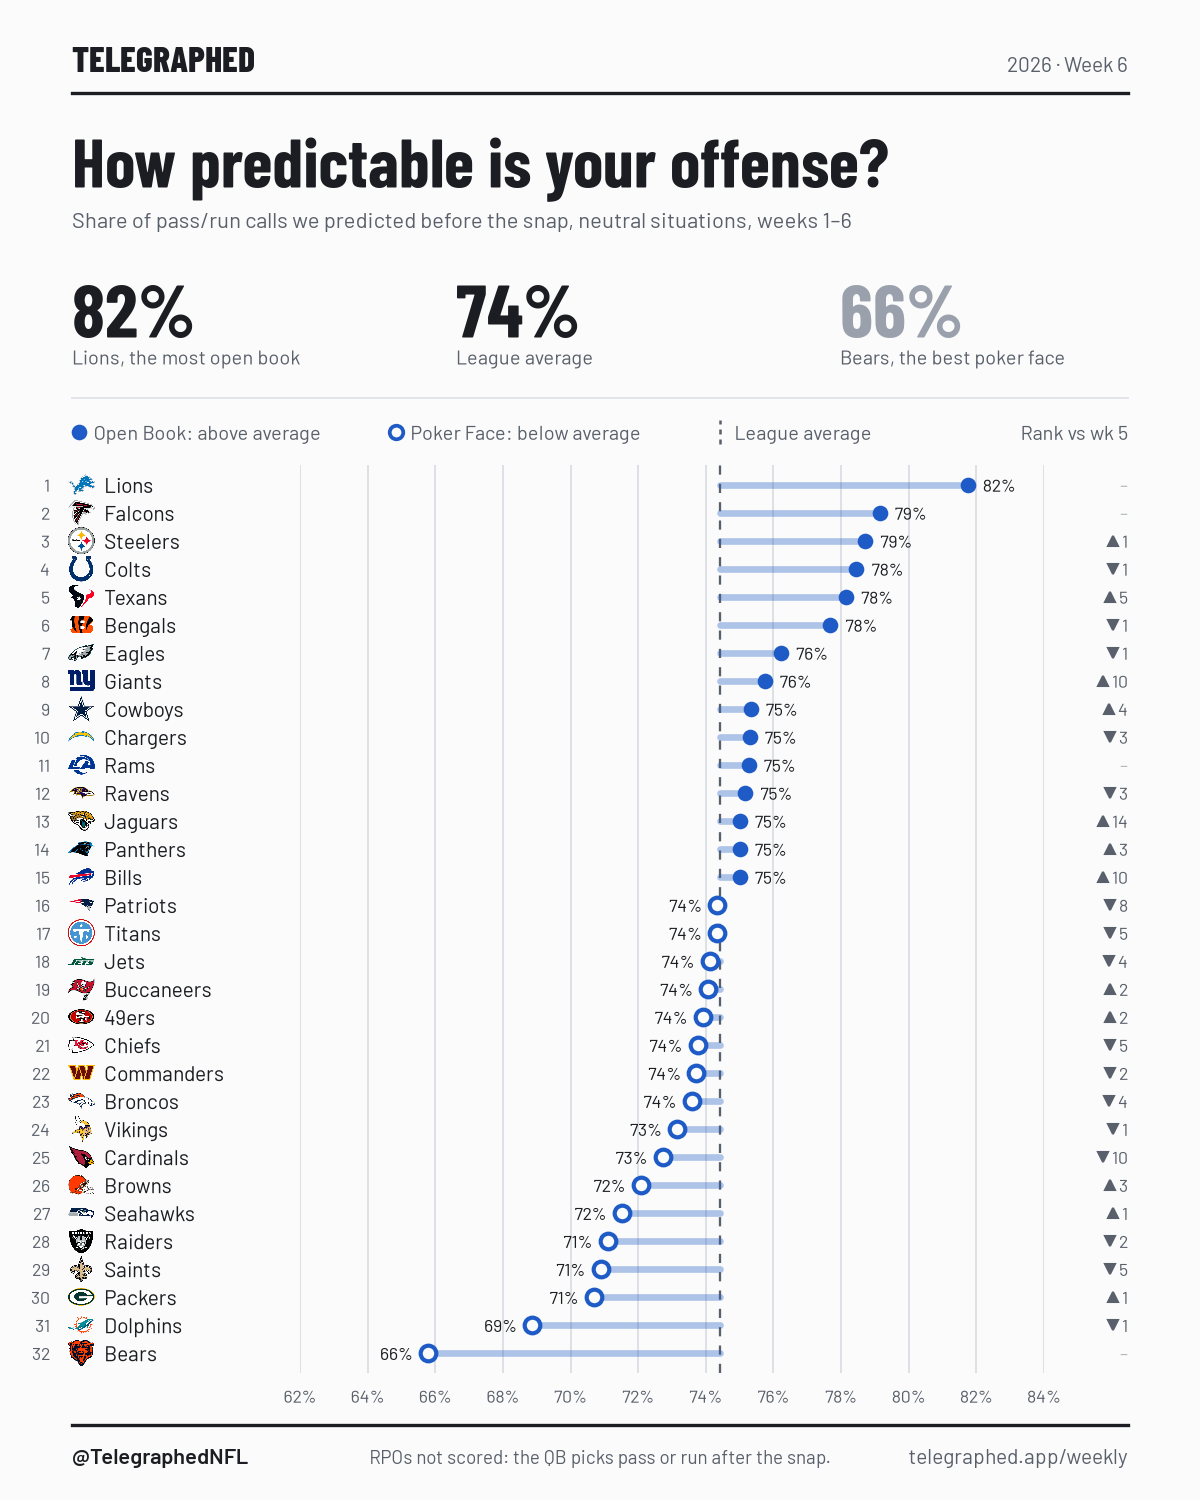
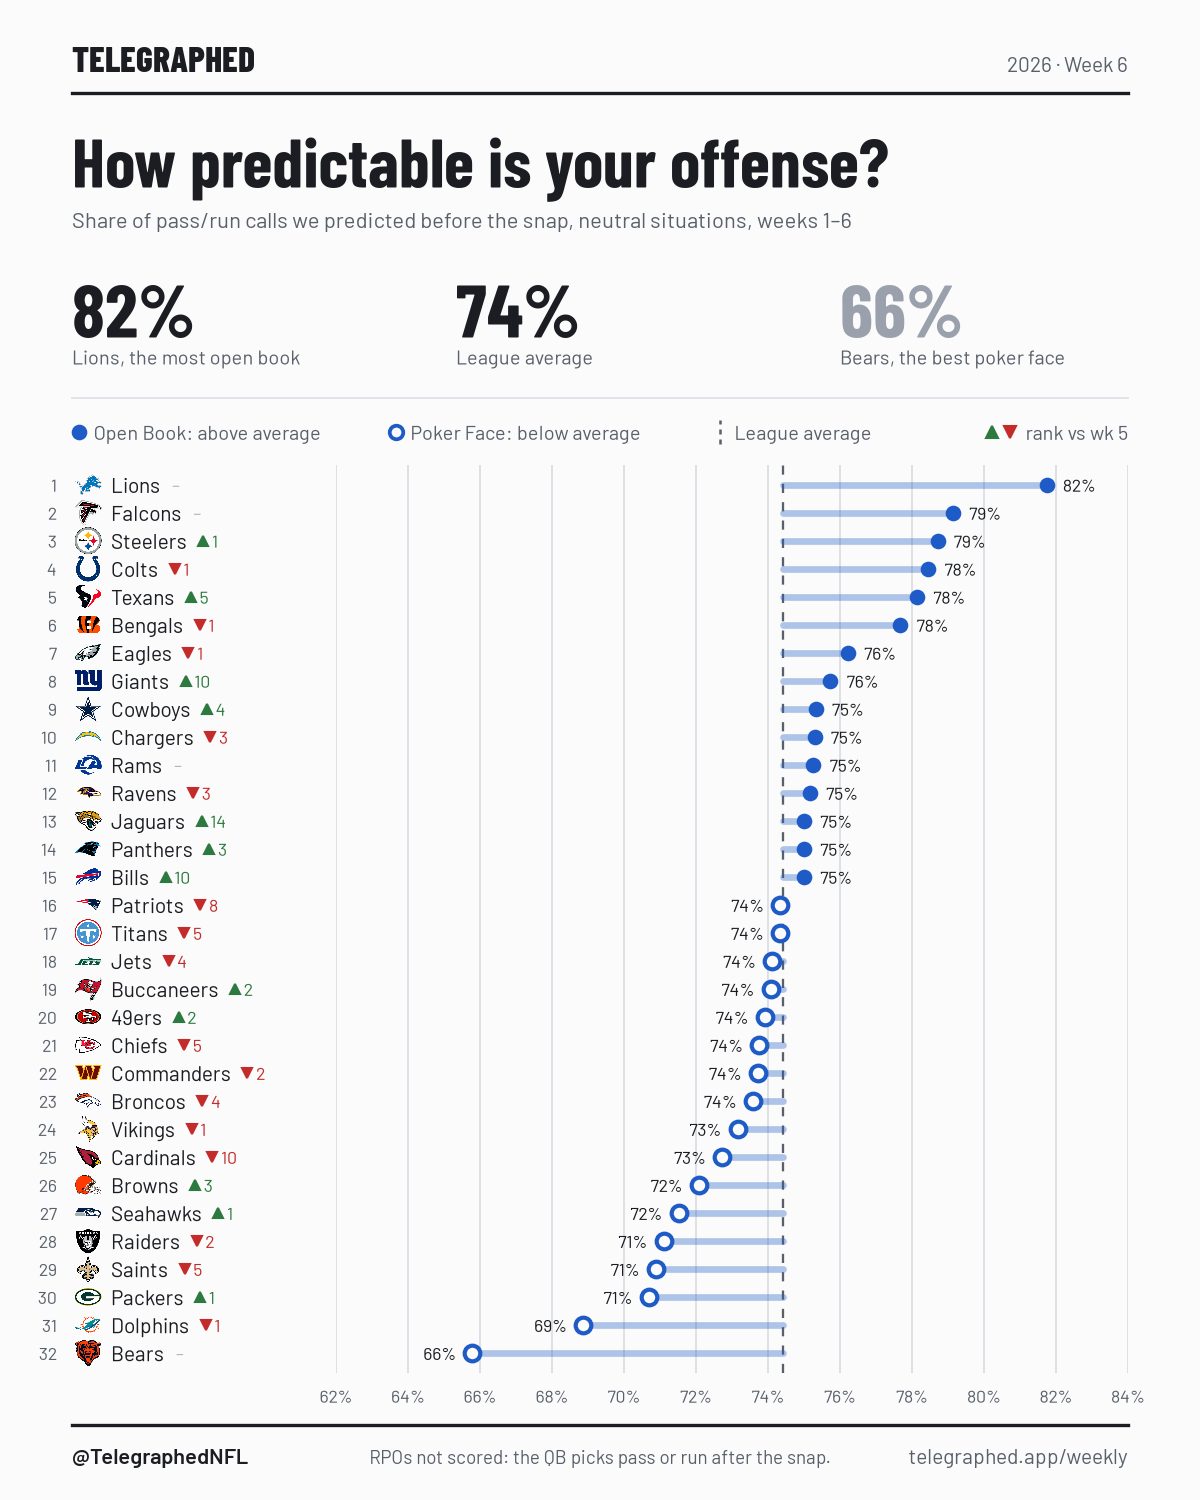
Change arrows beside team names, green up / red down
Claude-Session: https://claude.ai/code/session_01NWKE53WeDF9oazSkcFb3rH

diff --git a/site/weekly/index.html b/site/weekly/index.html
@@ -76,7 +76,8 @@ svg text { font-family: var(--text); }
 .key { display: flex; gap: 1.25rem; font-size: .85rem; color: var(--ink-2); margin: .25rem 0 .5rem; flex-wrap: wrap; }
 .key span::before { content: ""; display: inline-block; width: .7rem; height: .7rem; border-radius: 50%; margin-right: .35rem; vertical-align: -1px; background: var(--c); box-sizing: border-box; }
 .key span.arrows::before { display: none; }
-.mv { font-size: .8em; color: var(--ink-2); margin-left: .35em; }
+.mv { font-size: .8em; margin-left: .35em; }
+.up { color: var(--hit); font-weight: 400; } .dn { color: var(--run); font-weight: 400; }
 .key span.hollow::before { background: transparent; border: 2px solid var(--pass); }
 .tip { position: absolute; pointer-events: none; background: var(--board); border: 1px solid var(--grid); border-radius: 8px; padding: .35rem .6rem; font-size: .82rem; box-shadow: 0 4px 14px var(--shadow); display: none; white-space: nowrap; z-index: 5; }
 .tip .t { color: var(--ink-2); }
@@ -121,7 +122,7 @@ img.logo { width: 1.15em; height: 1.15em; object-fit: contain; vertical-align: -
       <div class="num"><div class="v" id="n-avg">—</div><div class="k">League average, neutral situations</div></div>
       <div class="num"><div class="v pub" id="n-bot">—</div><div class="k" id="k-bot">Least predictable</div></div>
     </div>
-    <div class="chart" id="c-rank"><div class="key"><span style="--c:var(--pass)">Open Book: above average</span><span class="hollow">Poker Face: below average</span><span style="--c:var(--ink-2)">League average</span><span class="arrows" id="k-move">▲▼ rank vs last week</span></div></div>
+    <div class="chart" id="c-rank"><div class="key"><span style="--c:var(--pass)">Open Book: above average</span><span class="hollow">Poker Face: below average</span><span style="--c:var(--ink-2)">League average</span><span class="arrows" id="k-move">rank vs last week</span></div></div>
     <details class="tbl"><summary>Show as a table</summary>
       <table><thead><tr><th>#</th><th>Move</th><th>Offense</th><th class="n">Neutral</th><th class="n">All plays</th><th class="n">Snaps</th></tr></thead><tbody id="tbl"></tbody></table>
     </details>
@@ -171,10 +172,10 @@ function rankChart(rows, avg) {
   const svg = svgIn(box, H);
   const rw = textW(svg, ['32'], 'tk') + 10;
   const lg = rows[0].abbr ? 24 : 0;   // logo column
-  const lw = rw + lg + textW(svg, rows.map((r) => r.team), 'lb') + 14;
+  const mw = D_week > 1 ? 30 : 0;   // rank change beside each name
+  const lw = rw + lg + textW(svg, rows.map((r) => r.team), 'lb') + 14 + mw;
   const lo = d3.min(rows, (r) => r.neutral), hi = d3.max(rows, (r) => r.neutral);
-  const mw = D_week > 1 ? 34 : 0;   // rank-change column on the right
-  const x = d3.scaleLinear([Math.floor((lo - .02) * 50) / 50, Math.ceil((hi + .02) * 50) / 50], [lw + 40, W - 48 - mw]);
+  const x = d3.scaleLinear([Math.floor((lo - .02) * 50) / 50, Math.ceil((hi + .02) * 50) / 50], [lw + 40, W - 48]);
   const y = d3.scaleBand(rows.map((r) => r.team), [4, H - 26]).padding(.3);
   const cy = (r) => y(r.team) + y.bandwidth() / 2;
   const ticks = x.ticks(Math.max(2, Math.floor((W - lw) / 80)));
@@ -183,7 +184,8 @@ function rankChart(rows, avg) {
   svg.append('line').attr('x1', x(avg)).attr('x2', x(avg)).attr('y1', 0).attr('y2', H - 24).attr('stroke', css('--ink-2')).attr('stroke-dasharray', '4 4');
   svg.append('g').selectAll('text').data(rows).join('text').attr('class', 'tk').attr('x', rw - 10).attr('y', cy).attr('dy', '.35em').attr('text-anchor', 'end').text((r) => r.rank);
   if (lg) svg.append('g').selectAll('image').data(rows).join('image').attr('class', 'logo').attr('href', (r) => logoSrc(r.abbr)).attr('x', rw).attr('y', (r) => cy(r) - 9).attr('width', 18).attr('height', 18);
-  svg.append('g').selectAll('text').data(rows).join('text').attr('class', 'lb').attr('x', rw + lg).attr('y', cy).attr('dy', '.35em').text((r) => r.team);
+  const lab = svg.append('g').selectAll('text').data(rows).join('text').attr('class', 'lb').attr('x', rw + lg).attr('y', cy).attr('dy', '.35em').text((r) => r.team);
+  if (mw) lab.append('tspan').attr('dx', 6).attr('class', 'tk').style('fill', (r) => css(r.move > 0 ? '--hit' : r.move < 0 ? '--run' : '--public')).text((r) => moveTxt(r.move));
   const g = svg.append('g').selectAll('g').data(rows).join('g');
   const up = (r) => r.neutral >= avg;
   g.append('line').attr('x1', x(avg)).attr('x2', (r) => x(r.neutral)).attr('y1', cy).attr('y2', cy).attr('stroke', css('--pass')).attr('stroke-opacity', .35).attr('stroke-width', 4).attr('stroke-linecap', 'round');
@@ -191,8 +193,6 @@ function rankChart(rows, avg) {
     .attr('fill', (r) => (up(r) ? css('--pass') : css('--board'))).attr('stroke', css('--pass')).attr('stroke-width', (r) => (up(r) ? 0 : 2.5));
   g.append('text').attr('class', 'tk').attr('fill', css('--ink')).attr('y', cy).attr('dy', '.35em')
     .attr('x', (r) => x(r.neutral) + (up(r) ? 12 : -12)).attr('text-anchor', (r) => (up(r) ? 'start' : 'end')).text((r) => fmt0(r.neutral));
-  if (mw) g.append('text').attr('class', 'tk').attr('x', W - 2).attr('y', cy).attr('dy', '.35em').attr('text-anchor', 'end')
-    .attr('fill', (r) => (r.move ? css('--ink-2') : css('--grid'))).text((r) => moveTxt(r.move));
   const tip = tipFor(box);
   g.append('rect').attr('x', 0).attr('width', W).attr('y', (r) => y(r.team)).attr('height', y.bandwidth()).attr('fill', 'transparent')
     .on('mousemove', (ev, r) => tip.show(ev, `#${r.rank} ${r.team}`, [`${fmtP(r.neutral)} called, neutral situations`, `${fmtP(r.acc)} called, all plays`, `${fmtC(r.snaps)} neutral snaps`, `Last week: ${moveTxt(r.move)}`]))
@@ -202,7 +202,7 @@ function rankChart(rows, avg) {
 let D_week = 1;
 function draw(D) {
   D_week = D.week;
-  if (D.week <= 1) el('k-move').remove(); else el('k-move').textContent = `▲▼ rank vs week ${D.week - 1}`;
+  if (D.week <= 1) el('k-move').remove(); else el('k-move').innerHTML = `<b class="up">▲</b><b class="dn">▼</b> rank vs week ${D.week - 1}`;
   const T = D.teams, top = T[0], bot = T[T.length - 1];
   el('meta').textContent = `${D.season} · Week ${D.week}`;
   el('hero-sub').textContent = `Every play caller has a tell. Through week ${D.week} of ${D.season}, we called ${fmt0(D.league_acc)} of all pass/run plays before the snap. Here's who gives it away most.`;
@@ -217,6 +217,7 @@ function draw(D) {
     [r.rank, moveTxt(r.move), r.team, fmt0(r.neutral), fmt0(r.acc), fmtC(r.snaps)].forEach((v, i) => {
       const td = document.createElement('td'); td.textContent = v; if (i >= 3) td.className = 'n';
       if (i === 2 && r.abbr) td.prepend(logoImg(r.abbr));
+      if (i === 1 && r.move) td.className = r.move > 0 ? 'up' : 'dn';
       tr.appendChild(td);
     });
     return tr;

diff --git a/site/index.html b/site/index.html
@@ -64,7 +64,7 @@ a.weekly .wk { color: var(--ink-2); font-size: .85rem; font-weight: 500; }
 a.weekly .wh { font-family: var(--display); font-weight: 700; font-size: clamp(1.5rem, 4vw, 2rem); line-height: 1.05; margin: .1rem 0 .4rem; }
 a.weekly .wl { display: flex; gap: .4rem 1.5rem; flex-wrap: wrap; color: var(--ink-2); font-size: .95rem; }
 a.weekly .wl b { color: var(--ink); font-weight: 600; }
-.mv { font-size: .8em; color: var(--ink-2); margin-left: .3em; }
+.mv { font-size: .8em; margin-left: .3em; } .mv.up { color: var(--hit); } .mv.dn { color: var(--run); }
 img.logo, image.logo { filter: var(--logo-halo, none); }
 img.logo { width: 1.15em; height: 1.15em; object-fit: contain; vertical-align: -.22em; margin-right: .3em; }
 a.weekly .dot { display: inline-block; width: .7rem; height: .7rem; border-radius: 50%; margin-right: .35rem; vertical-align: -1px; background: var(--pass); }
@@ -287,7 +287,7 @@ function weeklyTeaser(W) {
     const b = Object.assign(document.createElement('b'), { textContent: `${r.team} ${fmt0(r.neutral)}` });
     if (r.abbr) b.prepend(logoImg(r.abbr));
     s.append(d, label + ' ', b);
-    if (W.week > 1 && r.move) s.append(Object.assign(document.createElement('span'), { className: 'mv', textContent: r.move > 0 ? `▲${r.move}` : `▼${-r.move}` }));
+    if (W.week > 1 && r.move) s.append(Object.assign(document.createElement('span'), { className: 'mv ' + (r.move > 0 ? 'up' : 'dn'), textContent: r.move > 0 ? `▲${r.move}` : `▼${-r.move}` }));
     return s;
   };
   l.append(item('', 'Open Book:', top), item(' hollow', 'Poker Face:', bot));

diff --git a/src/weekly_report.py b/src/weekly_report.py
@@ -15,7 +15,7 @@ import matplotlib.pyplot as plt
 import numpy as np
 import pandas as pd
 sys.path.insert(0, os.path.dirname(os.path.abspath(__file__)))
-from brand import BRAND, HANDLE, SITE, NICK, TAG, AT, BOARD, INK, INK2, GRID, PASS, use_fonts, pct, logo, arrow, change
+from brand import BRAND, HANDLE, SITE, NICK, TAG, AT, BOARD, INK, INK2, GRID, PASS, use_fonts, pct, logo, arrow, change, UP, DOWN
 from scoring import mark_rpo, NOTE
 
 D = os.environ.get("DATA", "data")
@@ -129,10 +129,12 @@ def card(path):
     fig.lines.append(plt.Line2D([0.60, 0.60], [ky - 0.008, ky + 0.008], transform=fig.transFigure, color=INK2, lw=1.2, ls=(0, (2, 2))))
     fig.text(0.612, ky, "League average", color=INK2, fontsize=9.5, va="center")
     if week > 1:
-        fig.text(0.94, ky, f"Rank vs wk {week - 1}", color=INK2, fontsize=9.5, va="center", ha="right")
+        fig.text(0.94, ky, f"rank vs wk {week - 1}", color=INK2, fontsize=9.5, va="center", ha="right")
+        for mx, mk, c in [(0.827, "^", UP), (0.842, "v", DOWN)]:
+            fig.lines.append(plt.Line2D([mx], [ky], transform=fig.transFigure, marker=mk, ms=5.5, color=c, lw=0))
 
     # ranked dot chart, same marks as the page
-    ax = fig.add_axes([0.25, 0.085, 0.62, 0.605], facecolor=BOARD)   # right margin: rank change column
+    ax = fig.add_axes([0.28, 0.085, 0.66, 0.605], facecolor=BOARD)   # wide label column: name + rank change
     n = len(ytd)
     yy = list(range(n))[::-1]
     v = ytd.acc_neutral.values
@@ -140,20 +142,24 @@ def card(path):
     ax.set_xlim(lo, hi)
     ax.set_ylim(-0.7, n - 0.3)
     ax.axvline(neutral_avg, color=INK2, lw=1.1, ls=(0, (4, 4)), zorder=2)
+    names = []
     for yi, r in zip(yy, ytd.itertuples()):
         up = r.acc_neutral >= neutral_avg
         ax.plot([neutral_avg, r.acc_neutral], [yi, yi], color=PASS, alpha=.35, lw=3.2, solid_capstyle="round", zorder=3)
         ax.plot(r.acc_neutral, yi, "o", ms=7.5, mfc=PASS if up else BOARD, mec=PASS, mew=0 if up else 2, zorder=4)
         ax.text(r.acc_neutral + (0.0045 if up else -0.0045), yi, pct(r.acc_neutral), ha="left" if up else "right",
                 va="center", color=INK, fontsize=8.5, zorder=5)
-        if week > 1:
-            fy = fig.transFigure.inverted().transform(ax.transData.transform((0, yi)))[1]
-            change(fig, 0.94, fy, r.move, size=8.5)
-        ax.annotate(f"{r.rank}", (0, yi), xycoords=("axes fraction", "data"), xytext=(-120, 0), textcoords="offset points",
+        ax.annotate(f"{r.rank}", (0, yi), xycoords=("axes fraction", "data"), xytext=(-134, 0), textcoords="offset points",
                     ha="right", va="center", color=INK2, fontsize=8.5)
-        logo(ax, r.posteam, (0, yi), 13, coords=("axes fraction", "data"), offset=(-105, 0))
-        ax.annotate(NICK[r.posteam], (0, yi), xycoords=("axes fraction", "data"), xytext=(-94, 0), textcoords="offset points",
+        logo(ax, r.posteam, (0, yi), 13, coords=("axes fraction", "data"), offset=(-119, 0))
+        nm = ax.annotate(NICK[r.posteam], (0, yi), xycoords=("axes fraction", "data"), xytext=(-108, 0), textcoords="offset points",
                     ha="left", va="center", color=INK, fontsize=10)
+        names.append(nm)
+    if week > 1:   # rank change beside each name (measured after layout)
+        rend = fig.canvas.get_renderer()
+        for yi, r, nm in zip(yy, ytd.itertuples(), names):
+            bb = fig.transFigure.inverted().transform(nm.get_window_extent(rend))
+            change(fig, bb[1][0] + 0.010, (bb[0][1] + bb[1][1]) / 2, r.move, size=8.5, ha="left")
     ax.set_yticks([])
     ax.xaxis.set_major_locator(matplotlib.ticker.MultipleLocator(0.02))
     ax.xaxis.set_major_formatter(matplotlib.ticker.FuncFormatter(lambda x, _: f"{x:.0%}"))

diff --git a/src/brand.py b/src/brand.py
@@ -34,6 +34,7 @@ AT = dict(ARI="@AZCardinals", ATL="@AtlantaFalcons", BAL="@Ravens", BUF="@Buffal
 
 # site tokens (site/index.html, light mode): cards must look like the site
 BOARD, INK, INK2, GRID, PASS, RUN = "#FAFBFA", "#1B1D22", "#5A606B", "#DCE0E5", "#1E5BC6", "#C42B2B"
+UP, DOWN = "#2C7A3F", "#C42B2B"   # week-over-week change arrows (site tokens --hit / --run)
 FONTS = os.path.join(os.path.dirname(os.path.abspath(__file__)), "..", "assets", "fonts")
 
 
@@ -76,10 +77,10 @@ def logo(target, team, xy, size, coords="figure fraction", offset=(0, 0)):
 def change(fig, x, y, n, suffix="", size=9, color=None, ha="right"):
     """Week-over-week change on a card: a drawn triangle (Barlow has no arrow glyphs) + the number, e.g. ▲ 3 pts.
     x is the right edge (ha="right") or left edge (ha="left") in figure fraction; y is the text's vertical center.
-    No change draws a dash. Neutral ink: moving up isn't good or bad."""
+    No change draws a dash. Green up, red down unless `color` is given."""
     import matplotlib.pyplot as plt
-    color = color or INK2
     n = int(round(n))
+    color = color or (UP if n > 0 else DOWN)
     if n == 0:
         fig.text(x, y, "–", color="#AEB4BD", fontsize=size, ha=ha, va="center")
         return

diff --git a/src/game_cards.py b/src/game_cards.py
@@ -113,7 +113,7 @@ def card(path, gid, G, league, league_n, week, prev):
             v_ = fig.text(x + 0.40, y, v, color=INK if k != "Vs last game" else INK2, fontsize=10, ha="right", weight="semibold")
             if k == "Vs last game":
                 left = fig.transFigure.inverted().transform(v_.get_window_extent(rend))[0][0]
-                change(fig, left - 0.008, y + 0.004, round(100 * s["acc"]) - round(100 * prev[t]), " pts", size=10, color=INK)
+                change(fig, left - 0.008, y + 0.004, round(100 * s["acc"]) - round(100 * prev[t]), " pts", size=10)
     line(0.619, 0.8, GRID)
 
     # how to read it
